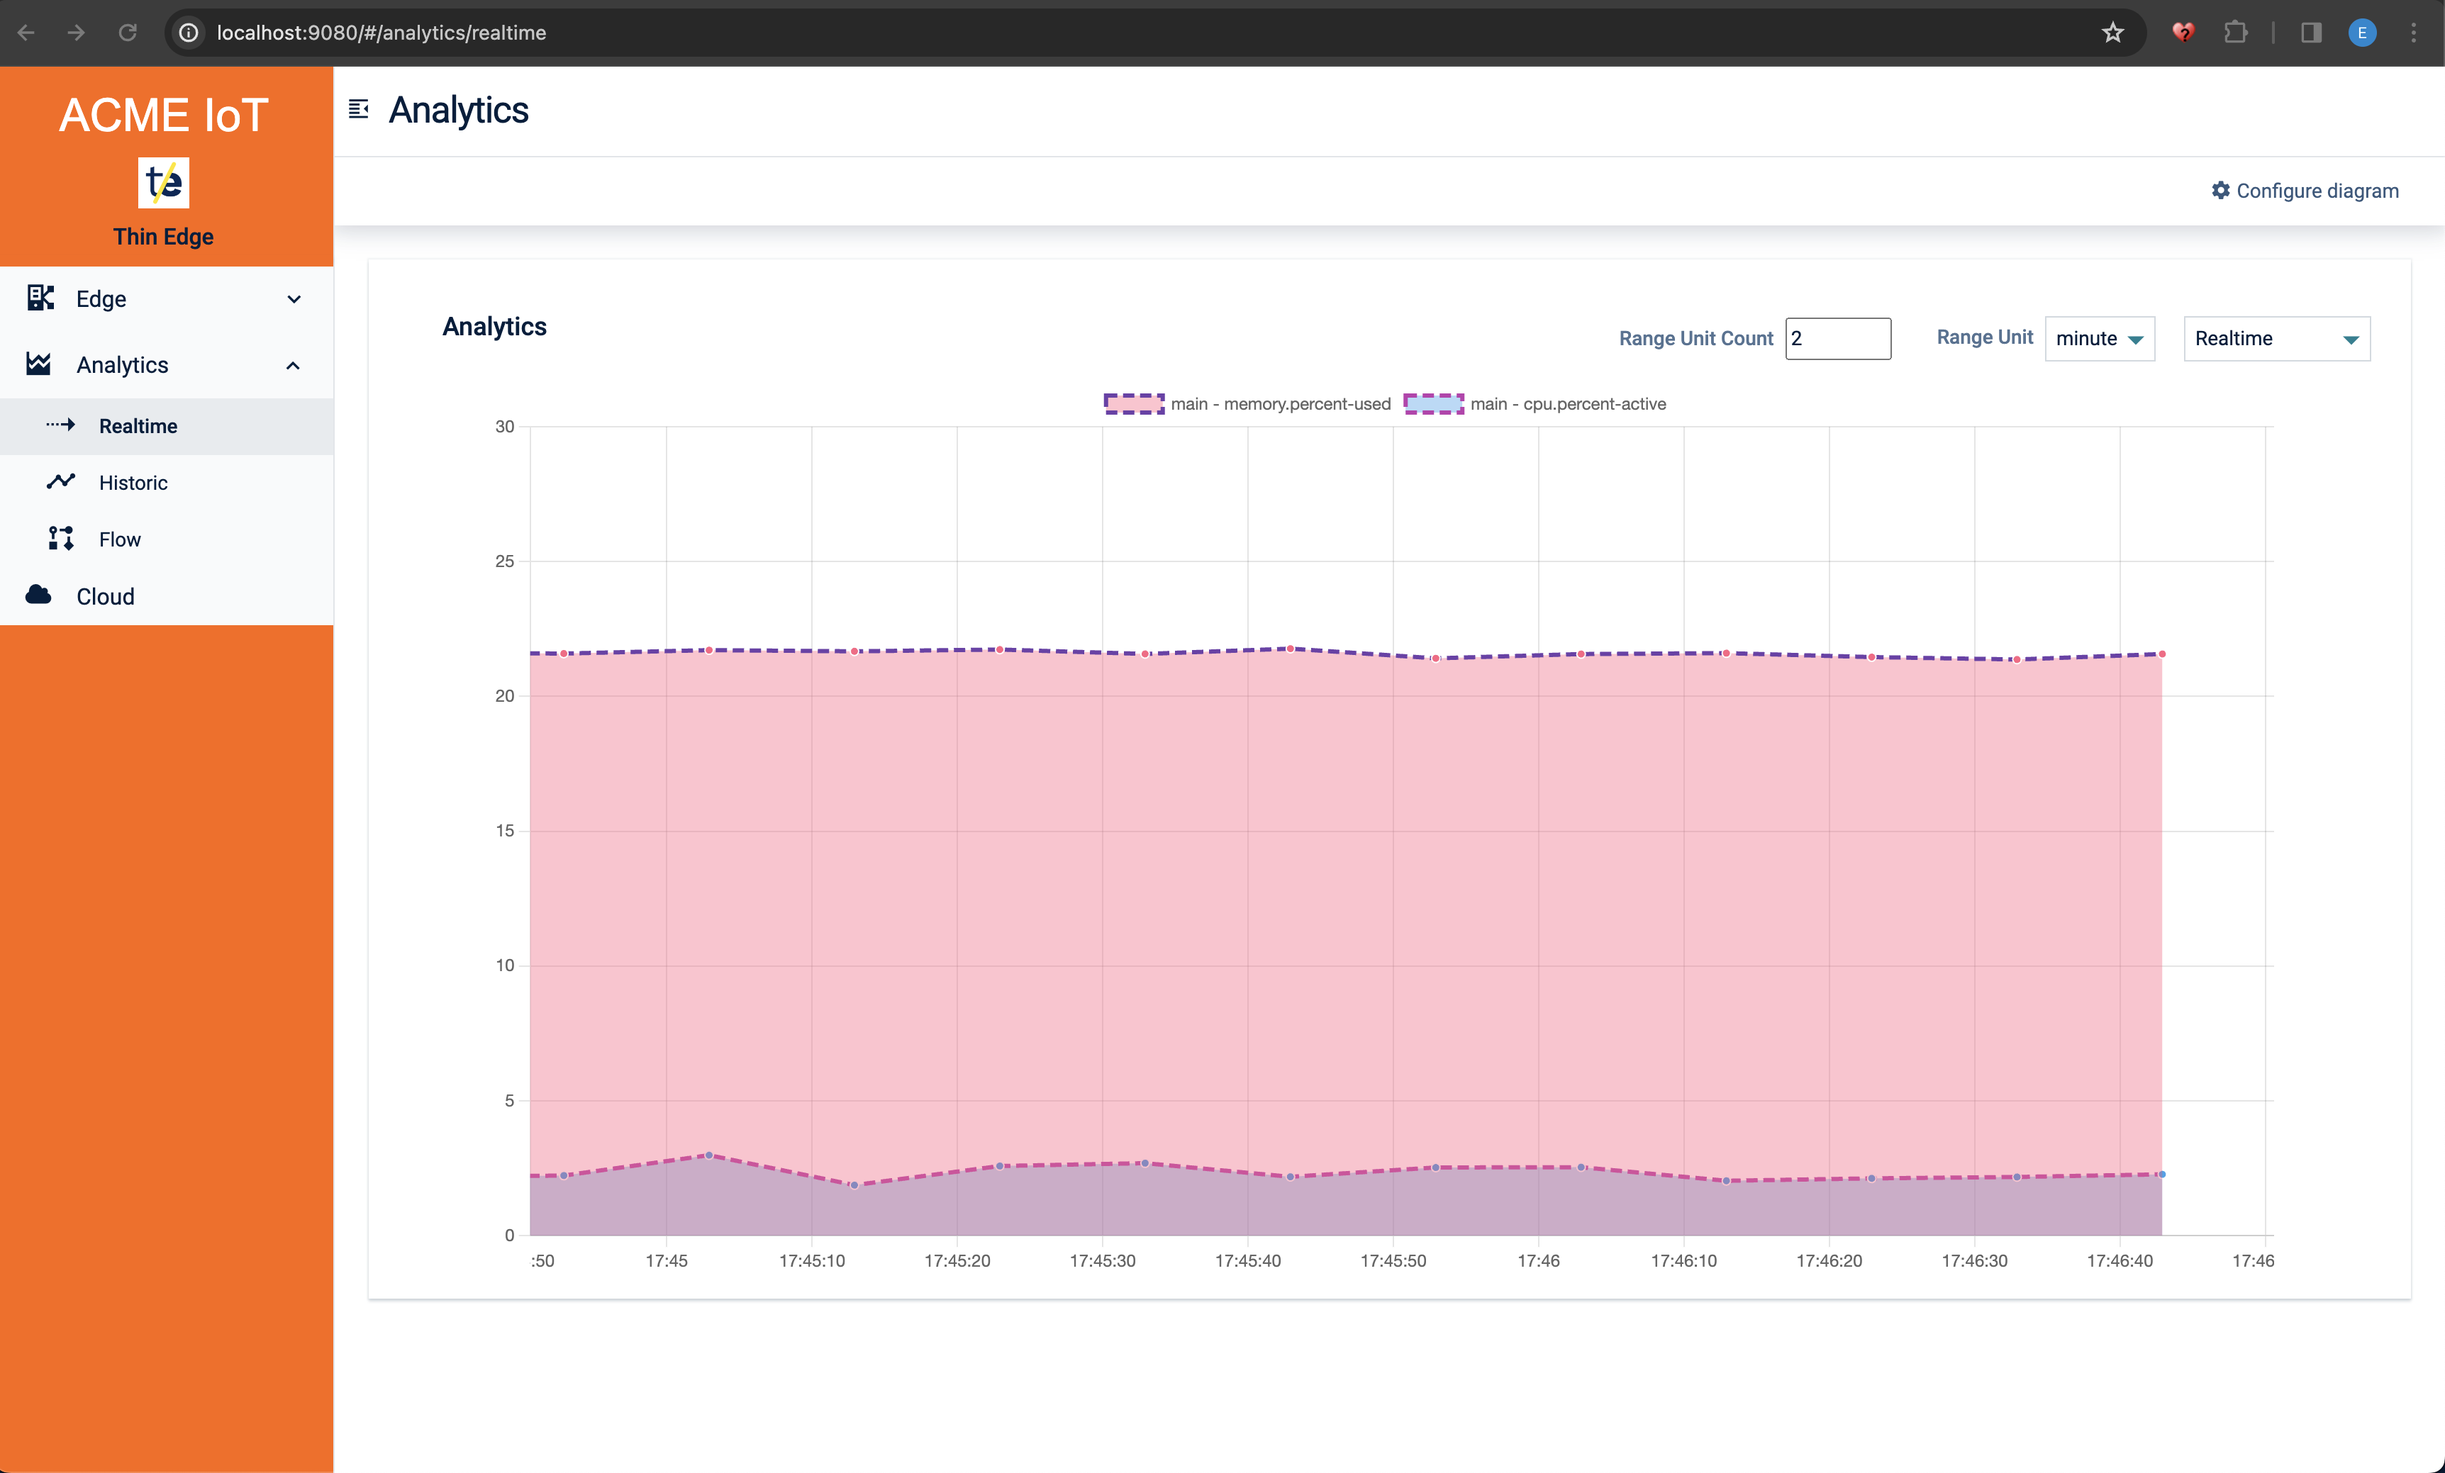
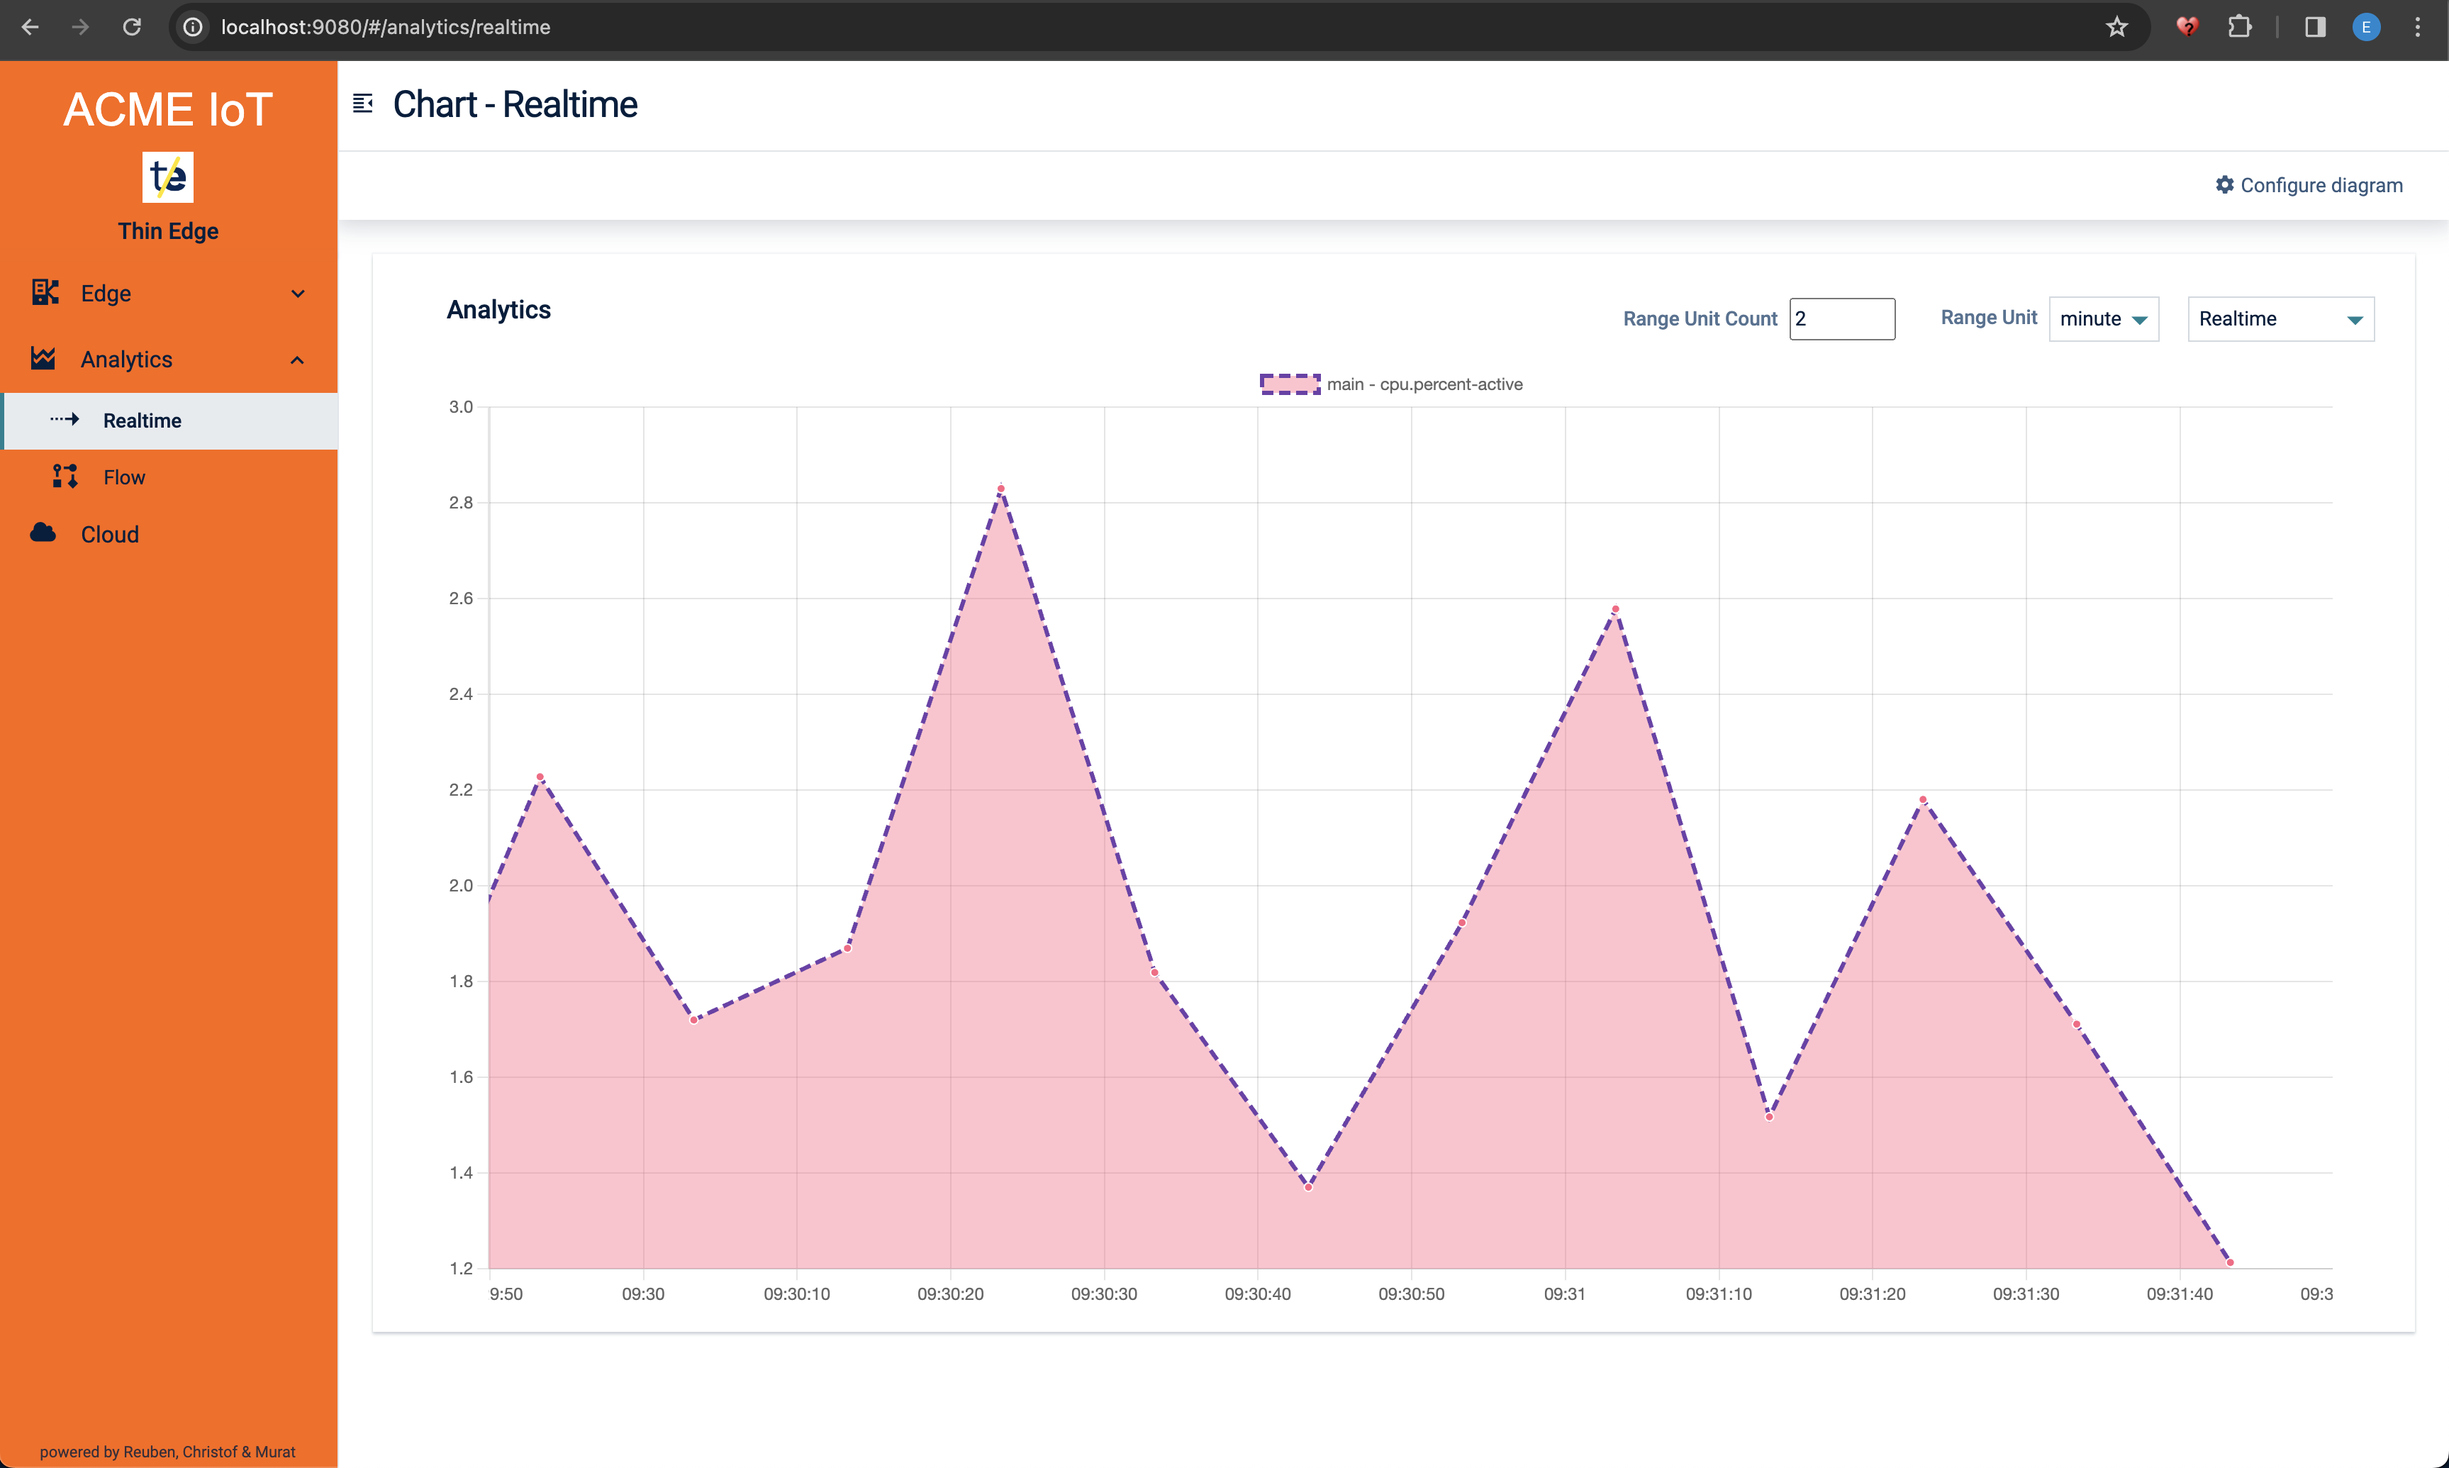
updated documentation

diff --git a/tedge/server/app/tedgeFileStore.js b/tedge/server/app/tedgeFileStore.js
@@ -68,7 +68,7 @@ class TedgeFileStore {
       ...this.seriesStored[device][type]['series'],
       ...newSeries
     };
-    console.log(`Called updateMeasurementTypes: ${JSON.stringify(this.seriesStored)}`);
+    // console.log(`Called updateMeasurementTypes: ${JSON.stringify(this.seriesStored)}`);
   }
 
   async getTedgeMgmConfiguration(req, res) {

diff --git a/README.md b/README.md
@@ -23,6 +23,8 @@ This solution consists of 3 services:
 * `mqtt-collector`: listens to measurements on all topics of the mosquitto broker and sends them to the mongo db
 * `mongodb`: stores the measurements in a collection, to be retrieved by the web-ui. All measurements have time-to-live (TTL) of 300. This can be changed
 
+When memory and storage usage should be minimized the solution can be confiured to run without storage. In this case the two container `mqtt-collector` and `mongodb` are not used.
+
 ![Docker Container](resource/02-Architecture.svg)
 
 The following diagram show how the components (`tedge-mgm`, `node` backend, `tedge` processes) in the tedge service communicate:
@@ -65,8 +67,11 @@ Then you can access the analytics dashboard : http://localhost:9080/#/analytics
 ![Setup](resource/01-Analytics.png)
 
 and change the settings of the chart:
-![Setup](resource/02-Analytics.png)
+![Analytics Measurement Series](resource/02-Analytics.png)
 
+In case the soltion is used without the storage component you can only view measurement in realtime mode. The historic view is not available.
+
+![Analytics without Storage](resource/03-Analytics.png)
 
 # Contributing
 
